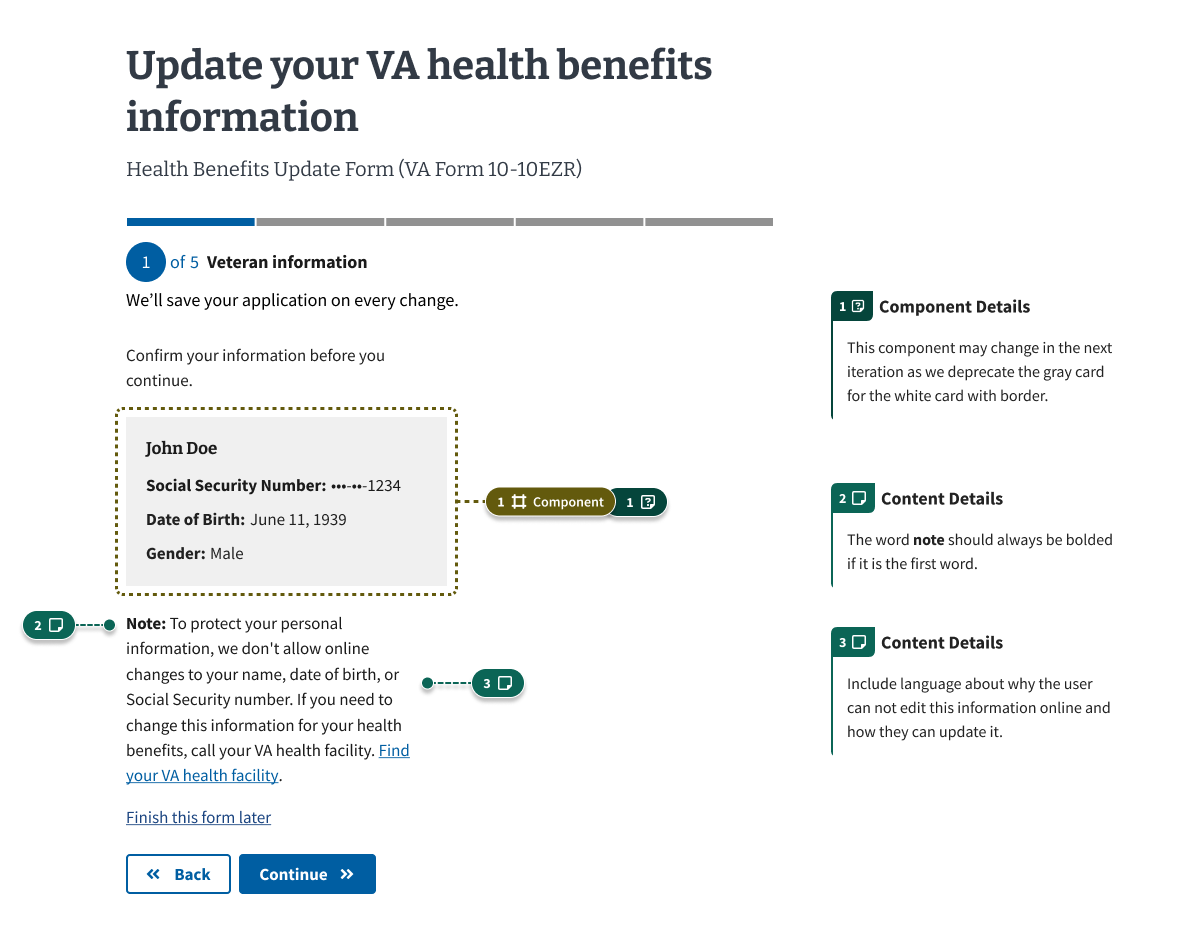
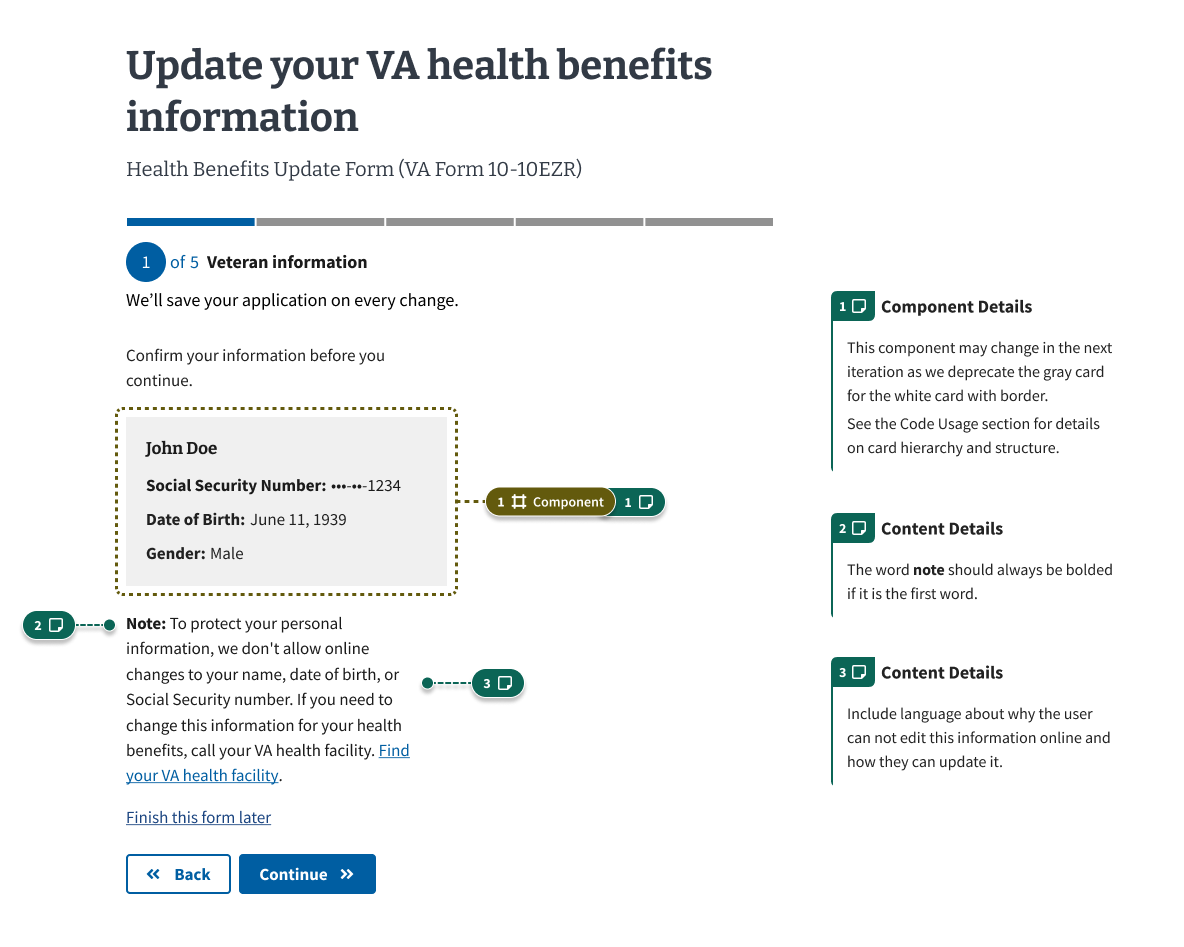
add code examples, storybook embeds, content updates, image updates

Changed region(s): [[0.6875, 0.4287, 0.9375, 0.8268], [0.6875, 0.3062, 0.875, 0.3369], [0.5, 0.49, 0.5625, 0.5512]]

diff --git a/src/_patterns/help-users-to/know-when-their-information-is-prefilled.md b/src/_patterns/help-users-to/know-when-their-information-is-prefilled.md
@@ -43,15 +43,15 @@ This pattern involves these types of pages found in VA.gov forms:
 #### Introduction page
 There are two states of an introduction page: Authenticated and Unauthenticated.
 
-{% include component-example.html alt="Authenticated introduction page alert on the introduction page." file="/images/patterns/help-users-to/know-when-their-information-is-prefilled/intro-page-authenticated-alert.png" caption="Authenticated introduction page alert on the introduction page." class="x2" %}
+{% include component-example.html alt="A form introduction page viewed by an authenticated user with an alert that the form will fill parts of their application based on the their account details. Annotations state that alerts should be placed at the top of the page and the word 'note' in the alert should be bolded." file="/images/patterns/help-users-to/know-when-their-information-is-prefilled/intro-page-authenticated-alert.png" caption="Authenticated introduction page alert on the introduction page."  %}
 
-{% include component-example.html alt="Unauthenticated introduction page alert on the introduction page." file="/images/patterns/help-users-to/know-when-their-information-is-prefilled/intro-page-unauthenticated-alert.png" caption="Unauthenticated introduction page alert on the introduction page." class="x2" %}
+{% include component-example.html alt="Unauthenticated introduction page alert on the introduction page." file="/images/patterns/help-users-to/know-when-their-information-is-prefilled/intro-page-unauthenticated-alert.png" caption="Unauthenticated introduction page alert on the introduction page."  class="x2" %}
 
 #### Personal information page
-{% include component-example.html alt="Uneditable prefilled information on the personal information page." file="/images/patterns/help-users-to/know-when-their-information-is-prefilled/uneditable-prefill-information.png" caption="Uneditable prefilled information on the personal information page." class="x2" %}
+{% include component-example.html alt="A Veteran information page in a form flow with an uneditable card containing the Veteran's name, privacy masked Social Security number, date of birth, and gender. Below the card is a note explaining why the content can't be edited in the form and how to update this information. An annotation states that the gray card might be replaced in future iterations of the pattern." file="/images/patterns/help-users-to/know-when-their-information-is-prefilled/uneditable-prefill-information.png" caption="Uneditable prefilled information on the personal information page."  %}
 
 #### Prefill check page
-{% include component-example.html alt="" file="/images/patterns/help-users-to/know-when-their-information-is-prefilled/editable-prefill-information.png" caption="Editable prefilled information displayed on the Prefill check page. This is the proposed style to display data that is editable." class="x2" %}
+{% include component-example.html alt="A Veteran information page in a form flow with an alert followed by a white editable card containing the Veteran's mailing address. The alert states that the form has prefilled some of the Veteran's information. Annotations state that alerts should be placed at the top of the page, and that the white card might be replaced in future iterations of the pattern." file="/images/patterns/help-users-to/know-when-their-information-is-prefilled/editable-prefill-information.png" caption="Editable prefilled information displayed on the Prefill check page. This is the proposed style to display data that is editable." %}
 
 ### How this pattern works
 
@@ -81,13 +81,93 @@ List of links to page templates or layouts used to build any pages for this patt
 
 ## Examples
 
-Examples of this pattern. May contain reference or links to:
+### Uneditable Prefill Card
+{% include storybook-preview.html story="patterns-components-card--uneditable" link_text="uneditable prefill alert" %}
+
+### Editable Prefill Card
+{% include storybook-preview.html story="patterns-components-card--editable" link_text="editable prefill alert" %}
+
+
+### Signed In Prefill Alert
+{% include storybook-preview.html story="patterns-components-prefill-alert--signed-in-prefill-alert" link_text="signed in prefill alert" %}
+
+### Unauthenticated Prefill Alert
+{% include storybook-preview.html story="patterns-components-prefill-alert--unauthenticated-prefill-alert" link_text="unauthenticated prefill alert" %}
+
+### Prefilled Info Alert
+{% include storybook-preview.html story="patterns-components-prefill-alert--prefilled-info-alert" link_text="prefilled info alert" %}
+
 
 ### Examples in production
 Coming soon!
 
 ## Code usage
-Coming soon!
+
+When using the `va-card` element to display prefilled information, ensure that the correct structure of the html is present. The description list `<dl>` and unordered list `<ul>` elements can be useful for displaying several pieces of uneditable data.
+
+### Uneditable information
+Here is some example markup for a card of uneditable content that utilizes a description list.
+
+``` html
+<va-card background>
+  <div className="vads-u-padding--4 vads-u-margin--0">
+    <dl>
+      <dt className="vads-u-font-weight--bold">Name</dt>
+      <dd>Godzilla</dd>
+      <dt className="vads-u-font-weight--bold">Born</dt>
+      <dd>1952</dd>
+      <dt className="vads-u-font-weight--bold">Birthplace</dt>
+      <dd>Japan</dd>
+      <dt className="vads-u-font-weight--bold">Color</dt>
+      <dd>Green</dd>
+    </dl>
+  </div>
+</va-card>
+```
+
+### Editable information
+
+If a user can update their information, than pieces of information can be shown with a heading followed by the information itself, along with an edit link.
+
+``` html
+<va-card show-shadow="true">
+
+  <h4 className="vads-u-width--auto vads-u-margin-top--0">
+    Email address
+  </h4>
+
+  <p>testemail1234@unattended.com</p>
+
+  <va-link
+    label="Edit email address"
+    href="/link-here"
+    text="Edit"
+    active
+  />
+
+</va-card>
+```
+
+[View more prefill card examples on storybook](https://design.va.gov/storybook/?path=/docs/patterns-components-card--docs)
+
+### Prefilled info alert
+
+A prefill info alert tells users that some information on a form has been prefilled.
+
+``` html
+<va-alert
+  status="info"
+>
+  <p className="vads-u-margin-y--0">
+    <strong>
+      Note:
+    </strong>
+    {' '}We've prefilled some of your information from your account. If you need to correct anything, you can select edit below. All updates will be made only to this form.
+  </p>
+</va-alert>
+```
+
+[View mort prefill alert examples on storybook](https://design.va.gov/storybook/?path=/docs/patterns-components-prefill-alert--docs)
 
 
 ## Content considerations
